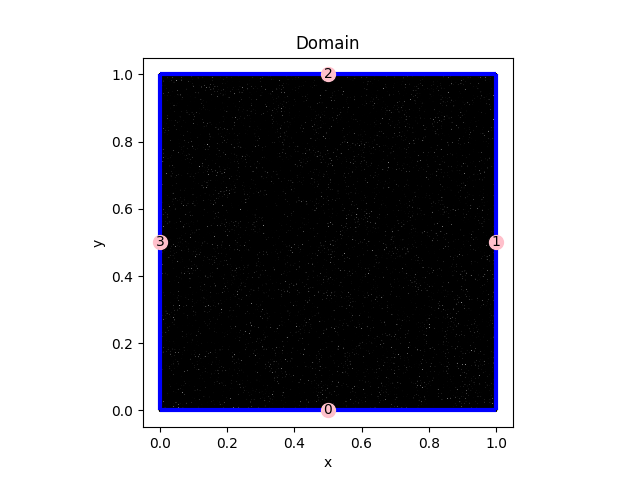
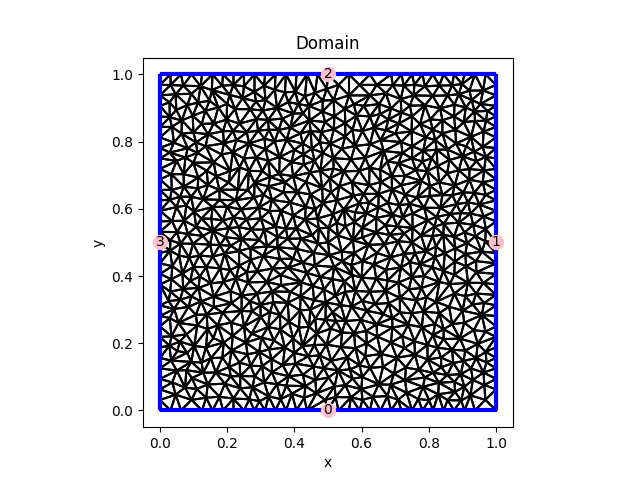
A

Changed region(s): [[0.25, 0.1562, 0.7812, 0.875]]

diff --git a/Examples/example3.py b/Examples/example3.py
@@ -78,9 +78,9 @@ if __name__ == '__main__':
     v = 0.27
     G = E/(2*(1+v))*0+1
     phi = 1
-
+    # import numpy as np
     # coords = np.array([[0, 0], [1, 0], [1, 1], [0, 1.0]])
-    # params = Delaunay._strdelaunay(a=0.0001, o=2)
+    # params = Delaunay._strdelaunay(a=0.001, o=2)
     # geo = Delaunay(coords, params)
     # geo.exportJSON('Examples/Mesh_tests/Square_torsion.json')
     geometria = Geometry2D.importJSON(

diff --git a/Examples/example2.py b/Examples/example2.py
@@ -119,7 +119,7 @@ if __name__ == '__main__':
         [0, tf],
     ]
     params = Delaunay._strdelaunay(constrained=True, delaunay=True,
-                                   a='0.00003', o=2)
+                                   a='0.00009', o=2)
     geometria = Delaunay(vertices, params)
 
     # geometria.exportJSON('Examples/Mesh_tests/I_test.json')

diff --git a/README.md b/README.md
@@ -203,171 +203,7 @@ A good example is the `PlaneStress` class in the `Elasticity2D.py` file.
 3. Non-Lineal for 2D equation (All cases)
 4. Testing and numerical validation (WIP)
 
-## Example index:
-
--   Example 1: Preliminar geometry test
-
--   Example 2: 2D Torsion 1 variable per node. H section-Triangular Quadratic.
-
-      <img src="https://raw.githubusercontent.com/ZibraMax/FEM/master/Examples/examples_results/example2.png">
-
--   Example 3: 2D Torsion 1 variable per node. Square section-Triangular Quadratic.
-
-      <img src="https://raw.githubusercontent.com/ZibraMax/FEM/master/Examples/examples_results/example3.png">
-
--   Example 4: 2D Torsion 1 variable per node. Mesh from internet-Square Lineal.
-
-      <img src="https://raw.githubusercontent.com/ZibraMax/FEM/master/Examples/examples_results/example4.png">
-
--   Example 5: 2D Torsion 1 variable per node. Creating and saving mesh-Triangular Quadratic.
-
-      <img src="https://raw.githubusercontent.com/ZibraMax/FEM/master/Examples/examples_results/example5.png">
-
--   Example 6: 1D random differential equation 1 variable per node. Linear Quadratic.
-
-      <img src="https://raw.githubusercontent.com/ZibraMax/FEM/master/Examples/examples_results/example6.png">
-
--   Example 7: GiD Mesh import test — Serendipity elements
-
-      <img src="https://raw.githubusercontent.com/ZibraMax/FEM/master/Examples/examples_results/example7.png">
-
--   Example 8: Plane Stress 2 variable per node. Plate in tension — Serendipity.
-
-      <img src="https://raw.githubusercontent.com/ZibraMax/FEM/master/Examples/examples_results/example8.png">
-
--   Example 9: Plane Stress 2 variable per node. Simple Supported Beam — Serendipity.
-
-      <img src="https://raw.githubusercontent.com/ZibraMax/FEM/master/Examples/examples_results/example9.png">
-
--   Example 10: Plane Stress 2 variable per node. Cantilever Beam — Triangular Quadratic.
-
-      <img src="https://raw.githubusercontent.com/ZibraMax/FEM/master/Examples/examples_results/example10.png">
-
--   Example 11: Plane Stress 2 variable per node. Fixed-Fixed Beam — Serendipity.
-
-      <img src="https://raw.githubusercontent.com/ZibraMax/FEM/master/Examples/examples_results/example11.png">
-
--   Example 12: Plane Strain 2 variable per node. Embankment from GiD — Serendipity.
-
-      <img src="https://raw.githubusercontent.com/ZibraMax/FEM/master/Examples/examples_results/example12.png">
-
--   Example 13: Plane Strain 2 variable per node. Embankment — Triangular Quadratic.
-
-      <img src="https://raw.githubusercontent.com/ZibraMax/FEM/master/Examples/examples_results/example13_geometry.png">
-      <img src="https://raw.githubusercontent.com/ZibraMax/FEM/master/Examples/examples_results/example13.png">
-
--   Example 14: Plane Stress 2 variable per node. Cantilever Beam — Serendipity.
-
-      <img src="https://raw.githubusercontent.com/ZibraMax/FEM/master/Examples/examples_results/example14.png">
-
--   Example 15: Profile creation tool. Same as Example 14
-
-      <img src="https://raw.githubusercontent.com/ZibraMax/FEM/master/Examples/examples_results/example15.png">
-
--   Example 16: Non-Local Plane Stress. [WIP]
--   Example 17: 1D Heat transfer.
-
-      <img src="https://raw.githubusercontent.com/ZibraMax/FEM/master/Examples/examples_results/example17.png">
-
--   Example 18: 2D border elements creation.
-
-      <img src="https://raw.githubusercontent.com/ZibraMax/FEM/master/Examples/examples_results/example18.png">
-
--   Example 19: Apply loads on regions. `loadOnRegion` method on Test 11
-
-      <img src="https://raw.githubusercontent.com/ZibraMax/FEM/master/Examples/examples_results/example19.png">
-
--   Example 20: Reddy's Example 11.7.1 Ed 3
--   Example 21: Example 20 with serendipity elements.
--   Example 22: Example 20 with refined mesh.
-
-      <img src="https://raw.githubusercontent.com/ZibraMax/FEM/master/Examples/examples_results/example22.png">
-
--   Example 23: Reddy's Problem 11.1 Ed 3 Plain Strain
-
-      <img src="https://raw.githubusercontent.com/ZibraMax/FEM/master/Examples/examples_results/example23.png">
-
--   Example 24: Example 23 with refined mesh
-
-      <img src="https://raw.githubusercontent.com/ZibraMax/FEM/master/Examples/examples_results/example24.png">
-
--   Example 25: Holes concept. With Example 24
-
-      <img src="https://raw.githubusercontent.com/ZibraMax/FEM/master/Examples/examples_results/example25_geometry.png">
-      <img src="https://raw.githubusercontent.com/ZibraMax/FEM/master/Examples/examples_results/example25.png">
-
--   Example 26: Fillets concept.
-
-      <img src="https://raw.githubusercontent.com/ZibraMax/FEM/master/Examples/examples_results/example26_geometry.png">
-      <img src="https://raw.githubusercontent.com/ZibraMax/FEM/master/Examples/examples_results/example26.png">
-
--   Example 27: Combination of Holes Fillets, Plane Stress
-
-      <img src="https://raw.githubusercontent.com/ZibraMax/FEM/master/Examples/examples_results/example27_geometry.png">
-
--   Example 28: Fillets and Holes mesh files of Example 27
-
-      <img src="https://raw.githubusercontent.com/ZibraMax/FEM/master/Examples/examples_results/example28.png">
-
--   Example 29: Fillets and Holes in Example 13
-
-      <img src="https://raw.githubusercontent.com/ZibraMax/FEM/master/Examples/examples_results/example29_geometry.png">
-      <img src="https://raw.githubusercontent.com/ZibraMax/FEM/master/Examples/examples_results/example29.png">
-
--   Example 30: Border conditions and loads in holes
-
-      <img src="https://raw.githubusercontent.com/ZibraMax/FEM/master/Examples/examples_results/example30_geometry.png">
-      <img src="https://raw.githubusercontent.com/ZibraMax/FEM/master/Examples/examples_results/example30.png">
-
--   Example 31: 2D Heat with convective borders
-
-      <img src="https://raw.githubusercontent.com/ZibraMax/FEM/master/Examples/examples_results/example31_geometry.png">
-      <img src="https://raw.githubusercontent.com/ZibraMax/FEM/master/Examples/examples_results/example31.png">
-
--   Example 32: Border conditions and loads in holes
-
-      <img src="https://raw.githubusercontent.com/ZibraMax/FEM/master/Examples/examples_results/example32_geometry.png">
-      <img src="https://raw.githubusercontent.com/ZibraMax/FEM/master/Examples/examples_results/example32.png">
-
--   Example 33: Example 30 with Heat
-
-      <img src="https://raw.githubusercontent.com/ZibraMax/FEM/master/Examples/examples_results/example33_geometry.png">
-      <img src="https://raw.githubusercontent.com/ZibraMax/FEM/master/Examples/examples_results/example33.png">
-
--   Example 34: Custom plots, Beam-Girder steel plate connection
-
-      <img src="https://raw.githubusercontent.com/ZibraMax/FEM/master/Examples/examples_results/example34_geometry.png">
-      <img src="https://raw.githubusercontent.com/ZibraMax/FEM/master/Examples/examples_results/example34.png">
-
--   Example 35: Torsion with fillets
-
-      <img src="https://raw.githubusercontent.com/ZibraMax/FEM/master/Examples/examples_results/example35_geometry.png">
-      <img src="https://raw.githubusercontent.com/ZibraMax/FEM/master/Examples/examples_results/example35.png">
-
--   Example 36: Convective Heat Transfer from [Samson-Mano's software](https://github.com/Samson-Mano/2D_Heat_transfer)
-
-      <img src="https://raw.githubusercontent.com/ZibraMax/FEM/master/Examples/examples_results/example36.png">
-
--   Example 37: Convective Heat Transfer from [Samson-Mano's software](https://github.com/Samson-Mano/2D_Heat_transfer)
-
-      <img src="https://raw.githubusercontent.com/ZibraMax/FEM/master/Examples/examples_results/example37_geometry.png">
-      <img src="https://raw.githubusercontent.com/ZibraMax/FEM/master/Examples/examples_results/example37.png">
-
--   Example 38: Elements with different properties: Torsion with holes
-
-      <img src="https://raw.githubusercontent.com/ZibraMax/FEM/master/Examples/examples_results/example38_geometry.png">
-      <img src="https://raw.githubusercontent.com/ZibraMax/FEM/master/Examples/examples_results/example38.png">
-
--   Example 37: Elements with different properties: Torsion with holes Symetrical
-
-      <img src="https://raw.githubusercontent.com/ZibraMax/FEM/master/Examples/examples_results/example39_geometry.png">
-      <img src="https://raw.githubusercontent.com/ZibraMax/FEM/master/Examples/examples_results/example39.png">
-
--   Example 38 & 39: Polar moment of inertia for hollow sections
--   Example 40 & 41: Euler Bernoulli beams, linear and non-linear
--   Example 42: Non-linear equation solver test
--   Example 43: Orthotripic plane stress
--   Example 44: MeshingNet data creation code
+## [Examples](https://zibramax.github.io/FEM/Examples.html)
 
 ## References
 
